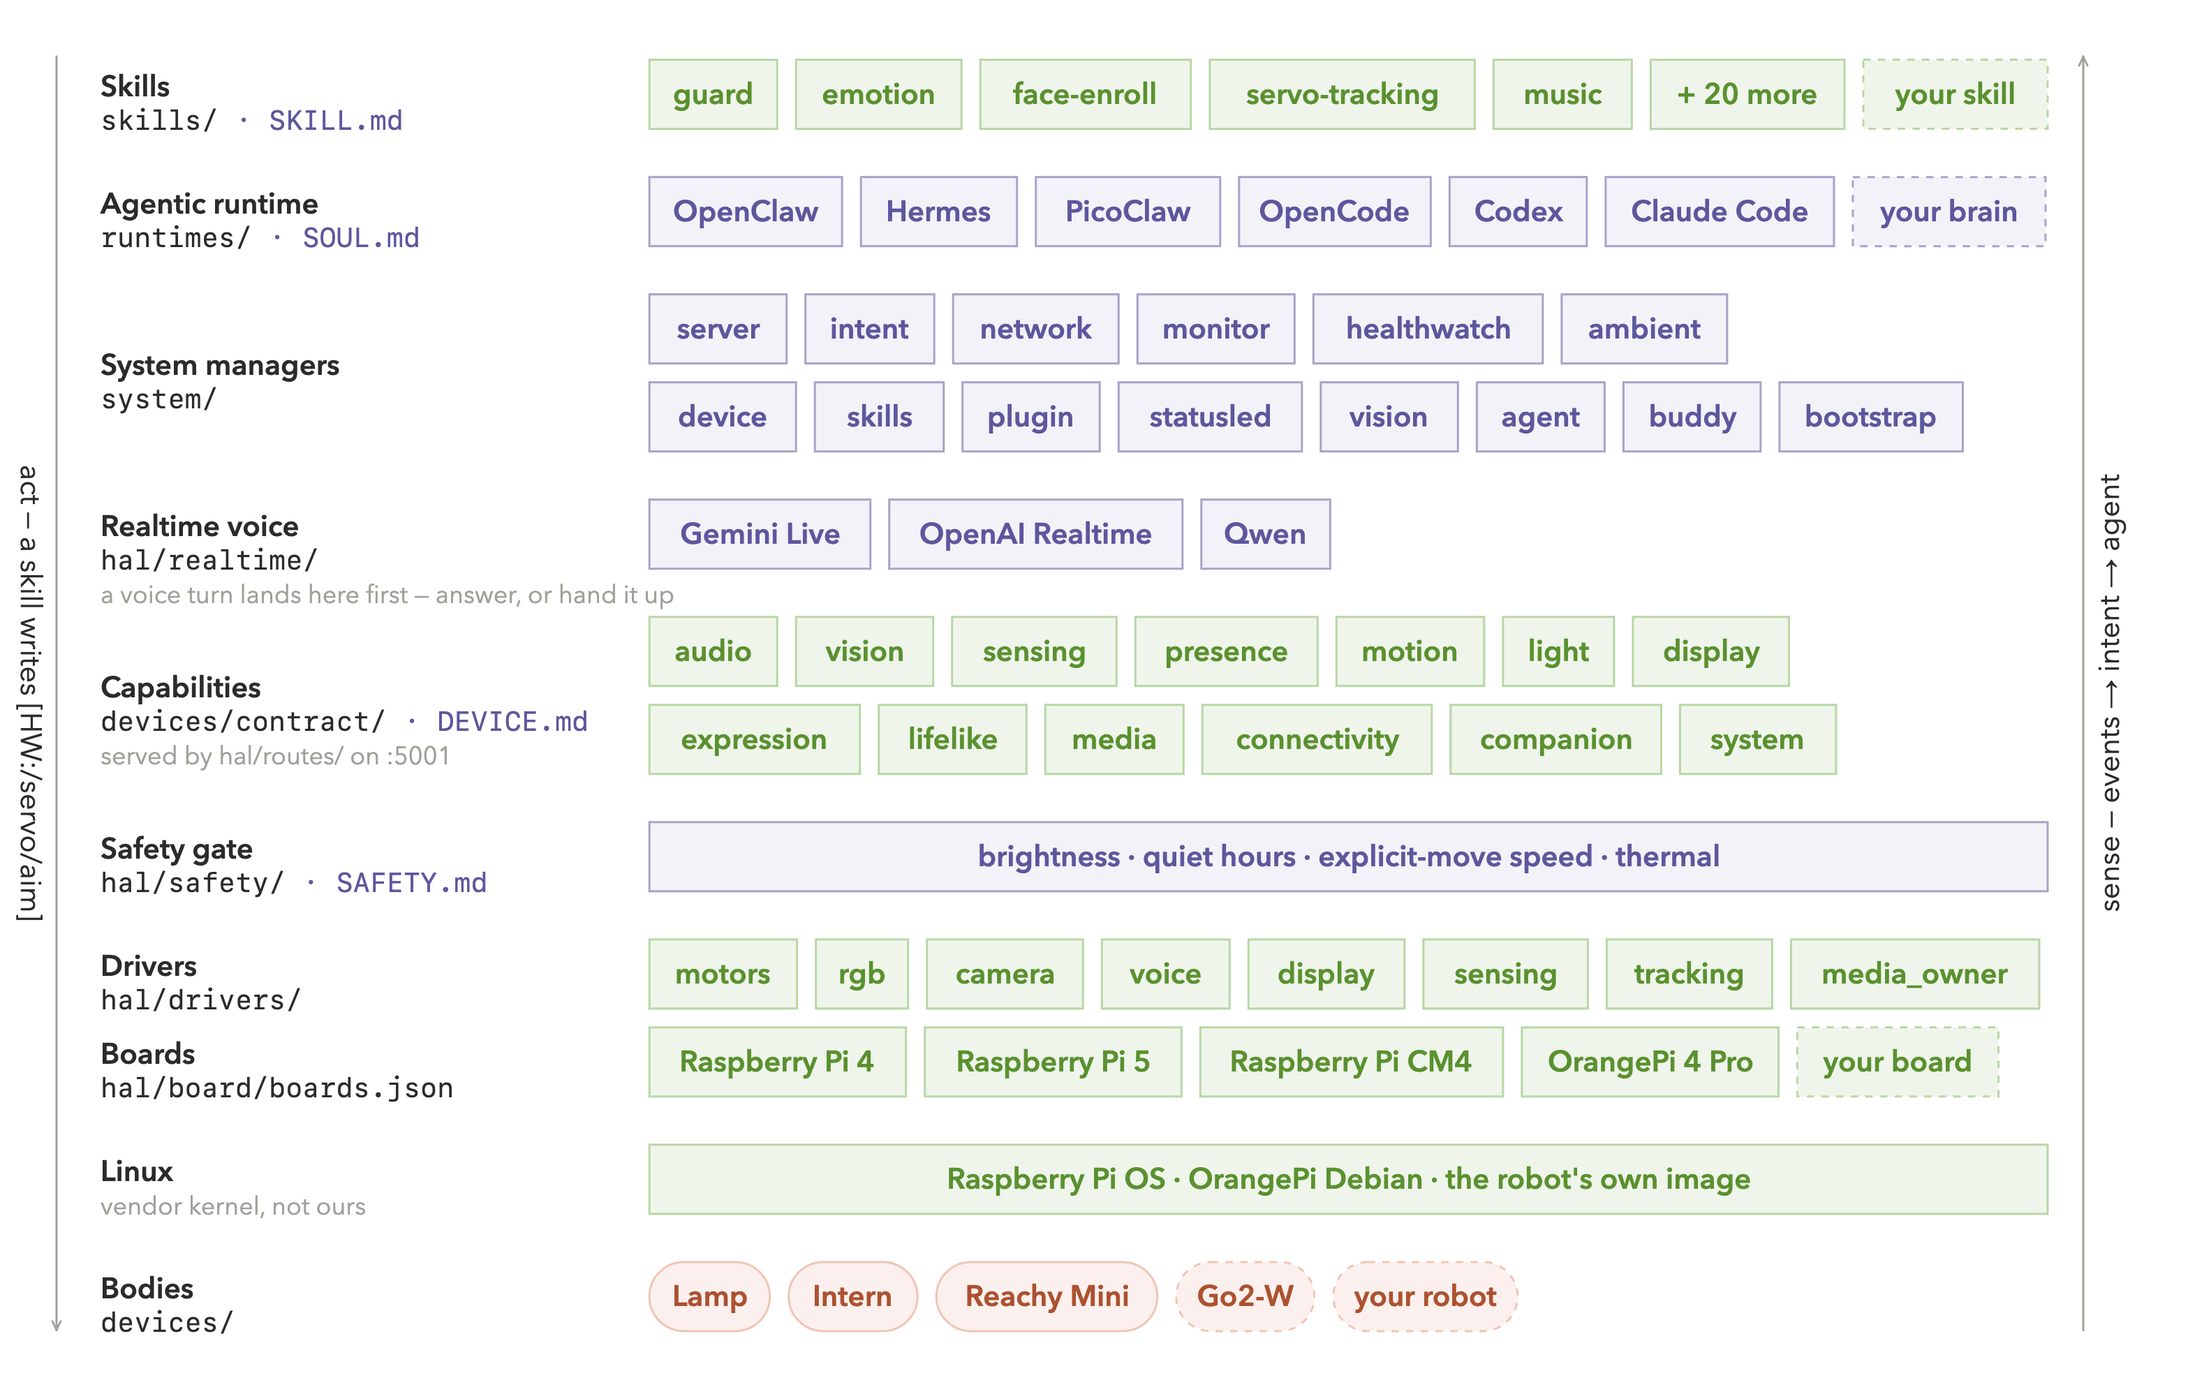
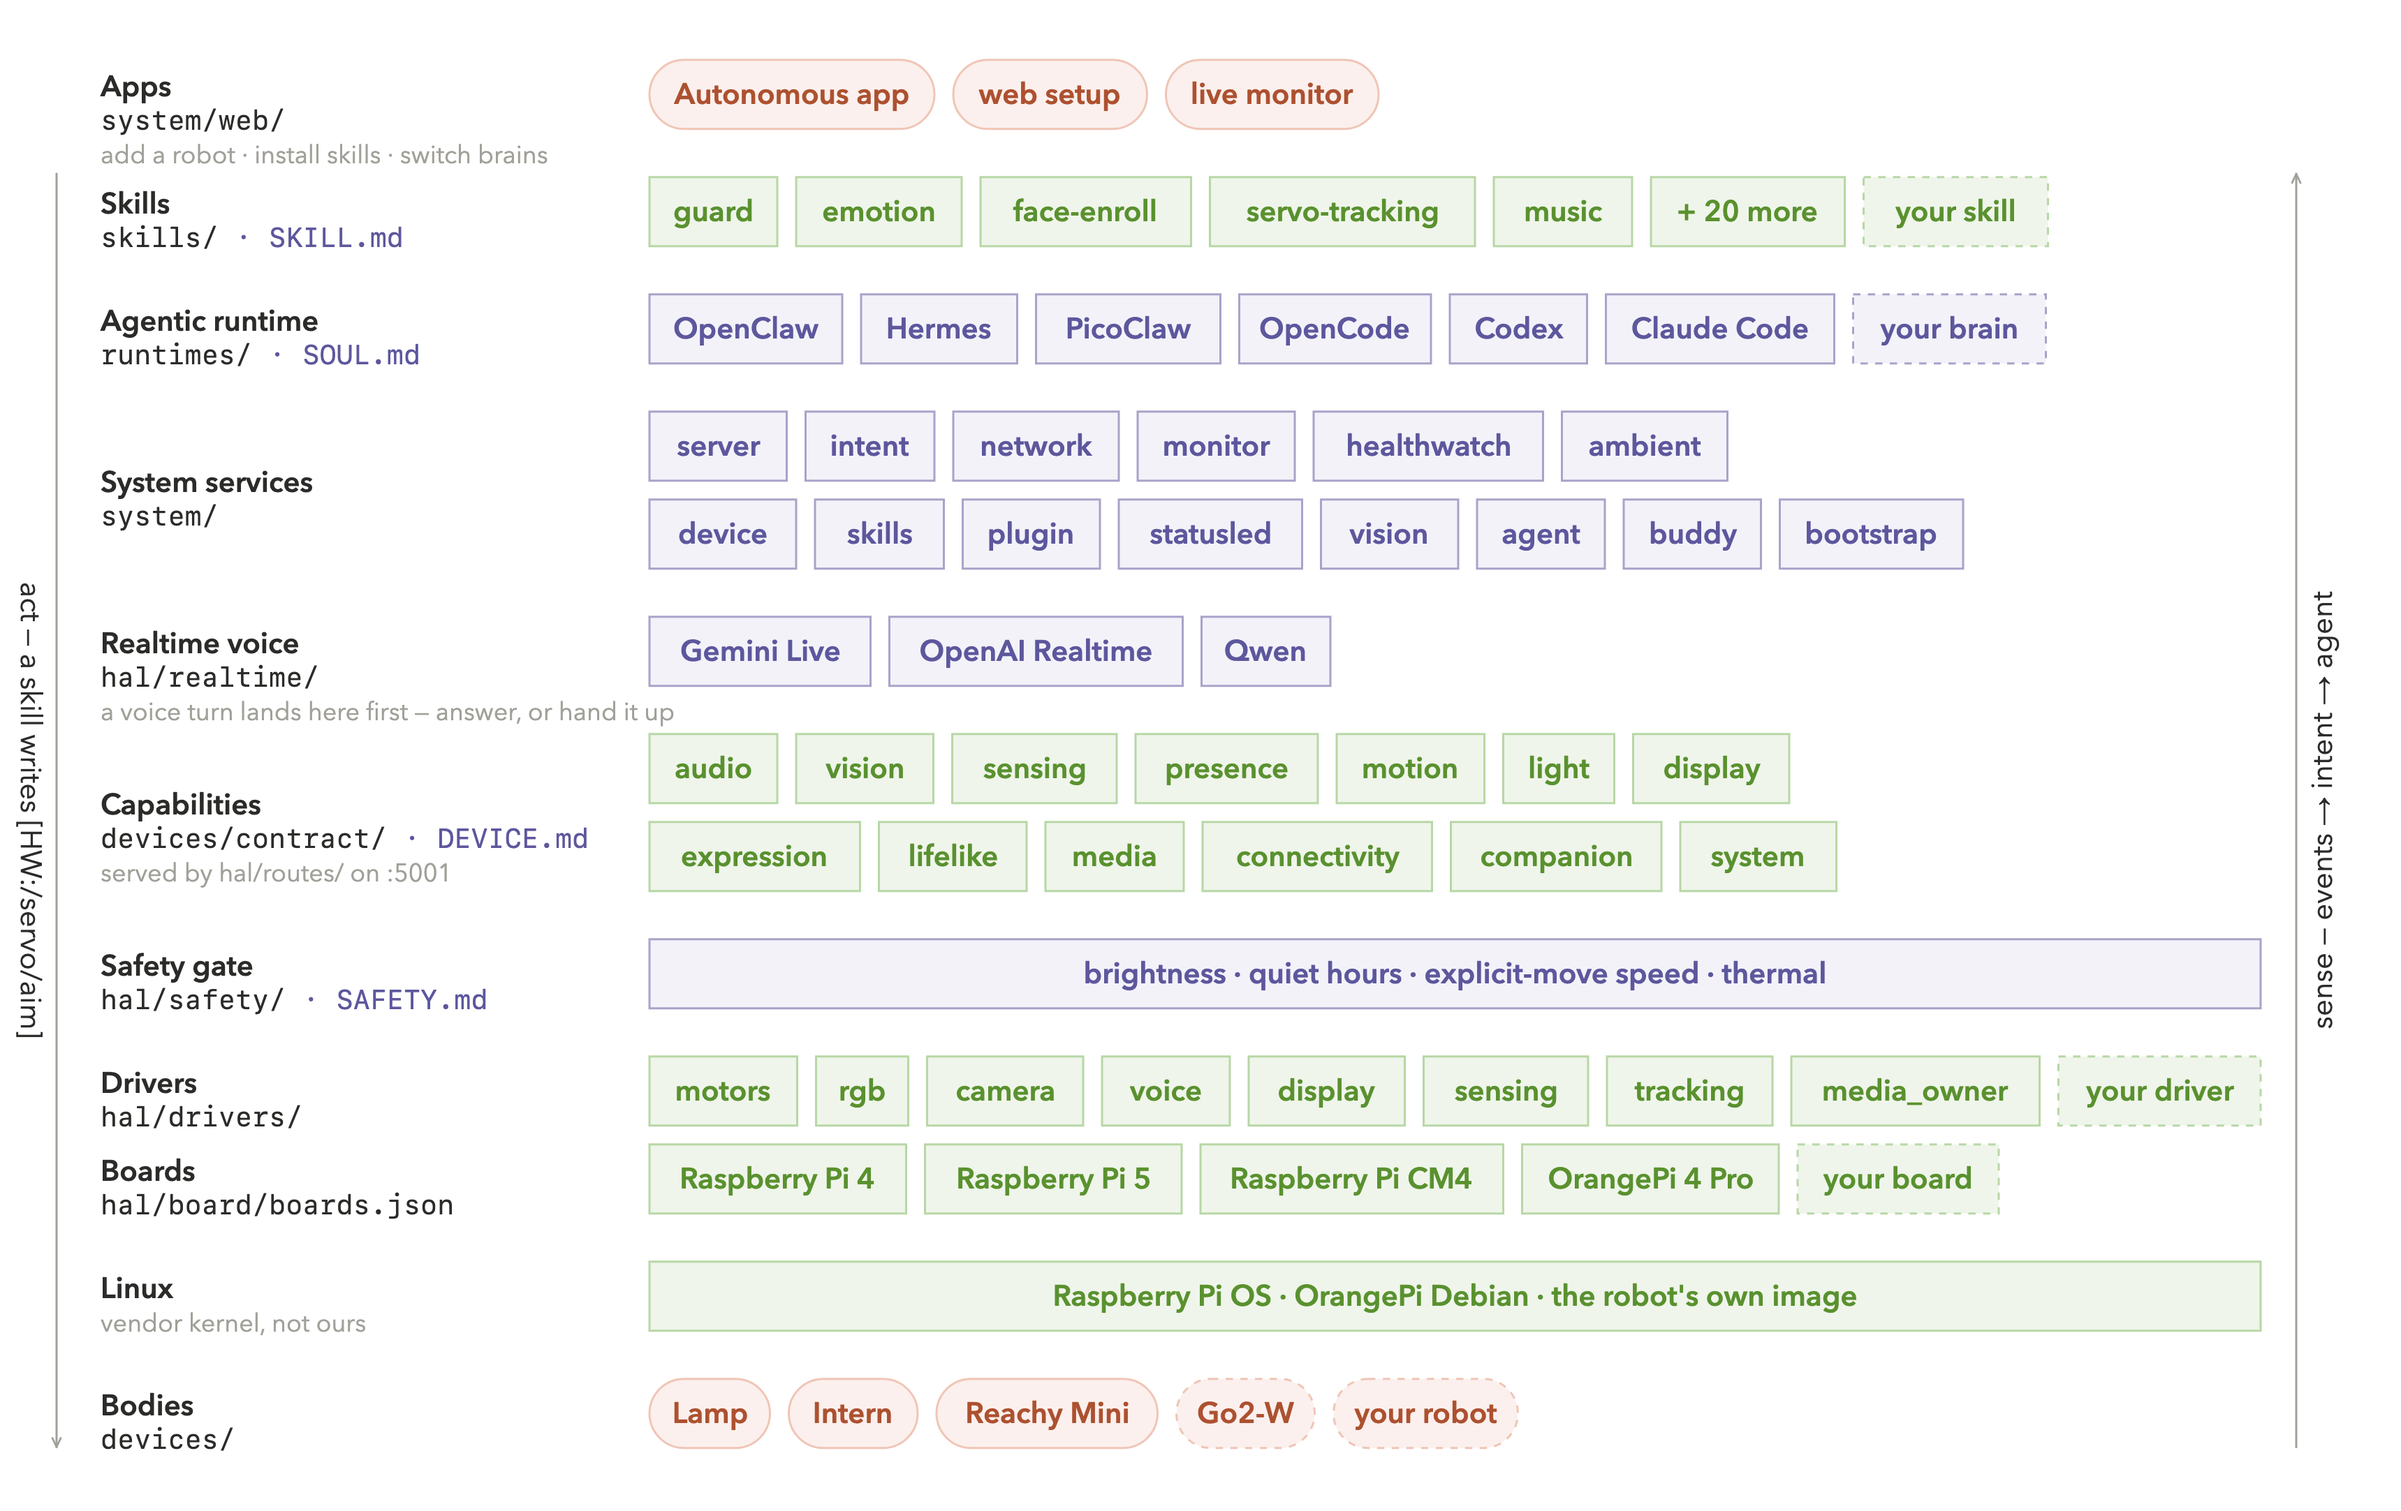
docs: the stack figure gets the apps layer and the driver extension point
Read against Android's platform diagram, ours was missing the layer a person
actually touches — Android's top row is System Apps. Added Apps (the
Autonomous app, the robot's own setup and monitor UI), drawn as terminals in
coral like the bodies: people at the top, robot at the bottom, the software
in between.

Also added a dashed "your driver" beside "your skill", "your brain", "your
board" and "your robot", so every row you can extend yourself now says so, and
renamed the system row to System services to match the README heading.

diff --git a/docs/architecture/build_figures.py b/docs/architecture/build_figures.py
@@ -97,8 +97,15 @@ def stack():
 
     widest = 0
 
-    # 1 — Skills
+    # 0 — Apps: the surfaces a person touches. Android's top layer is System Apps;
+    # ours is the app that adds a robot, installs skills and switches brains.
     y += 60
+    labels = ["Autonomous app", "web setup", "live monitor"]
+    f.caption_left(y, "Apps", "system/web/", note="add a robot · install skills · switch brains")
+    r = f.row(y, labels, None, term=True); widest = max(widest, r)
+
+    # 1 — Skills
+    y += ROW
     skills_y = y
     labels = ["guard", "emotion", "face-enroll", "servo-tracking", "music", "+ 20 more", "your skill"]
     f.caption_left(y, "Skills", "skills/", "SKILL.md")
@@ -114,7 +121,7 @@ def stack():
     y += ROW
     top = ["server", "intent", "network", "monitor", "healthwatch", "ambient"]
     bot = ["device", "skills", "plugin", "statusled", "vision", "agent", "buddy", "bootstrap"]
-    f.caption_left(y + SUB / 2, "System managers", "system/")
+    f.caption_left(y + SUB / 2, "System services", "system/")
     r1 = f.row(y, top, "purple"); r2 = f.row(y + SUB, bot, "purple")
     widest = max(widest, r1, r2)
     y += SUB
@@ -144,9 +151,9 @@ def stack():
 
     # 6 — Drivers + boards
     y += ROW
-    labels = ["motors", "rgb", "camera", "voice", "display", "sensing", "tracking", "media_owner"]
+    labels = ["motors", "rgb", "camera", "voice", "display", "sensing", "tracking", "media_owner", "your driver"]
     f.caption_left(y, "Drivers", "hal/drivers/")
-    r = f.row(y, labels, "green"); widest = max(widest, r)
+    r = f.row(y, labels, "green", dashed=("your driver",)); widest = max(widest, r)
 
     y += SUB
     labels = ["Raspberry Pi 4", "Raspberry Pi 5", "Raspberry Pi CM4", "OrangePi 4 Pro", "your board"]

diff --git a/README.md b/README.md
@@ -59,7 +59,11 @@ The simplest way in is a robot we have already tested it on. What each of them c
 
 Autonomous OS is a software stack. Each layer uses only the layer below it, so any layer can be replaced without touching the others. Every layer is a folder in this repo.
 
-![Autonomous OS stack, top down: 25 skills, six swappable agent runtimes, 14 Go system packages, the realtime voice agent, the 13 declared capabilities, a deterministic safety gate below them (brightness, quiet hours, explicit-move speed, thermal today), in-tree drivers and board profiles, the vendor Linux kernel, and the bodies — each row labelled with its repo folder.](docs/architecture/autonomous-stack.png)
+![Autonomous OS stack, top down: the apps a person touches, 25 skills, six swappable agent runtimes, 14 Go system packages, the realtime voice agent, the 13 declared capabilities, a deterministic safety gate below them (brightness, quiet hours, explicit-move speed, thermal today), in-tree drivers and board profiles, the vendor Linux kernel, and the bodies — each row labelled with its repo folder, and the rows you can extend yourself drawn dashed](docs/architecture/autonomous-stack.png)
+
+### [Apps](system/web/)
+
+What a person touches. The Autonomous app adds a robot, sets up Wi-Fi, installs skills from the Skill Store and switches brains; the robot also serves its own setup and monitor UI from `system/web/`. Both talk to os-server on :5000 — the same API your own script can call.
 
 ### [Skills](skills/)
 
